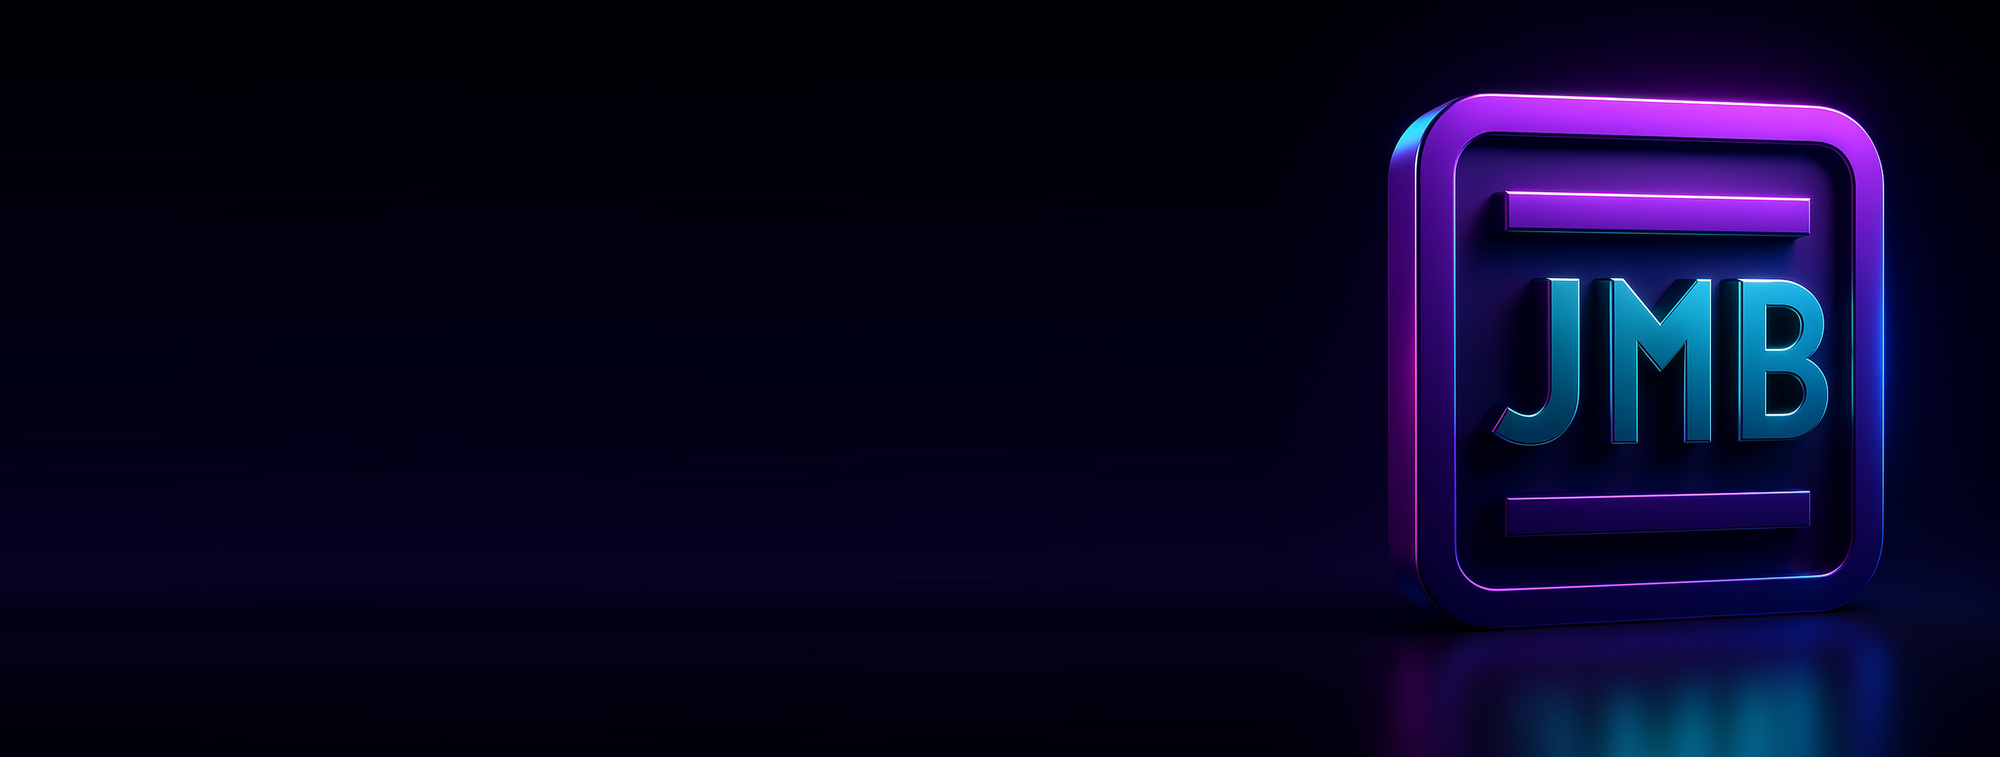
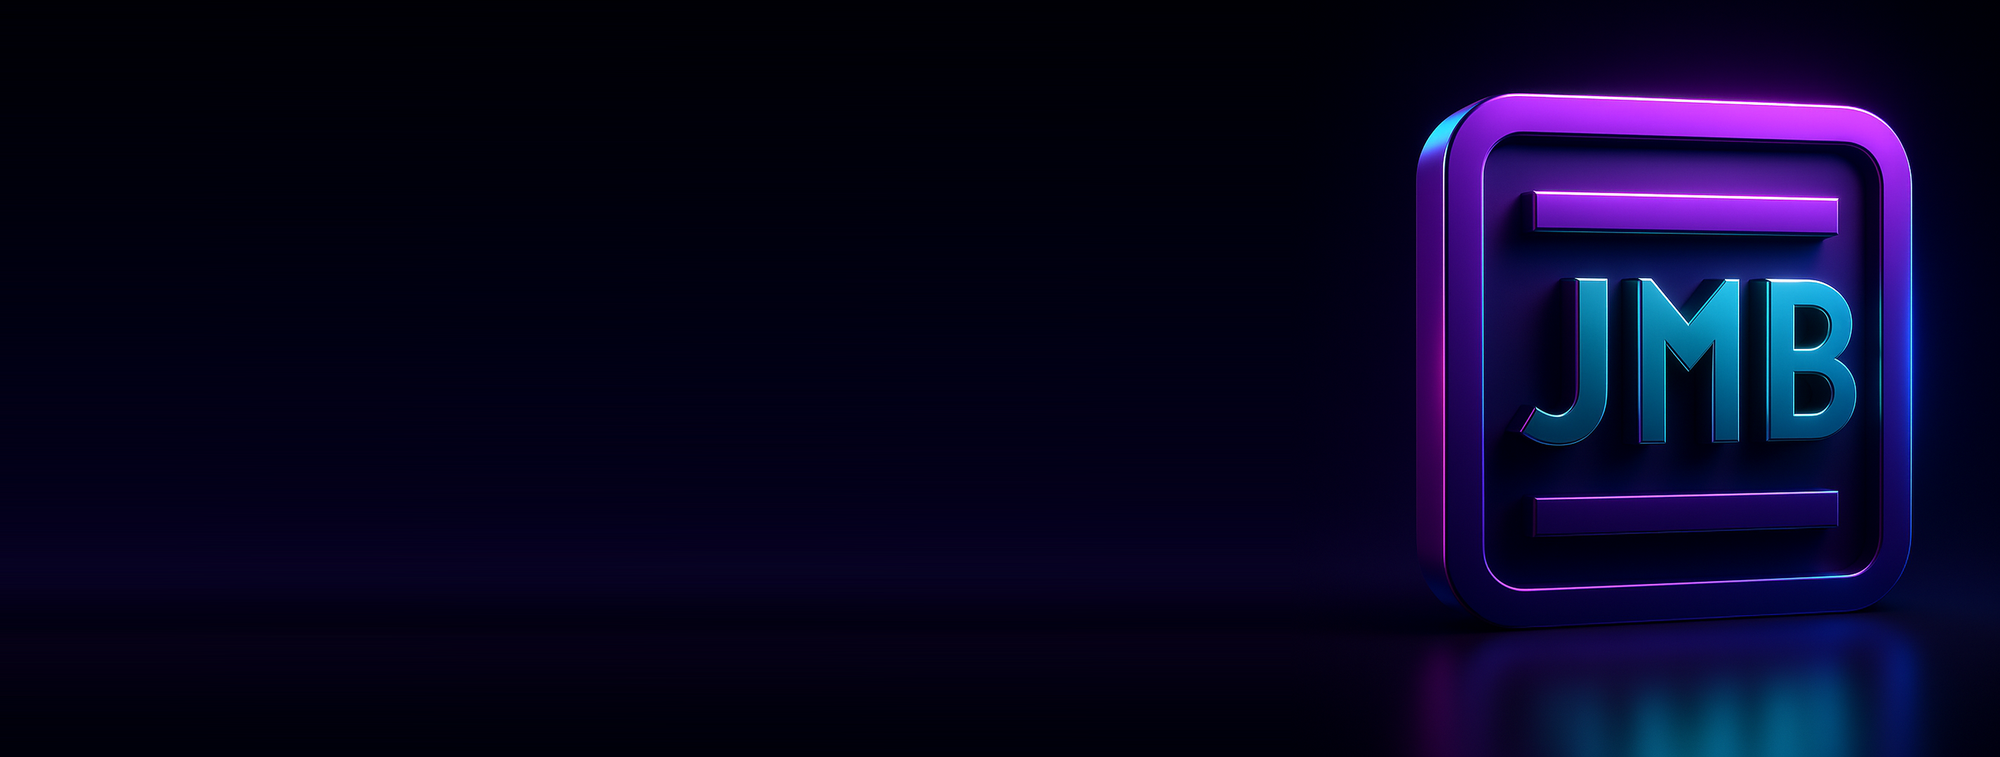
Hero: badge more right (v8)

Changed region(s): [[0.682, 0.1215, 0.992, 0.8811], [0.775, 0.8203, 0.961, 1.0], [0.682, 0.8811, 0.713, 0.9723]]

diff --git a/index.html b/index.html
@@ -48,7 +48,7 @@
   .btn:hover{ filter:brightness(1.08); }
   /* hero */
   header.hero{ position:relative; overflow:hidden; background:#000006;
-    background-image:linear-gradient(90deg,#000006 30%,rgba(0,0,6,.4) 52%,rgba(0,0,6,0) 68%), url('jmb-hero.png?v7');
+    background-image:linear-gradient(90deg,#000006 30%,rgba(0,0,6,.4) 52%,rgba(0,0,6,0) 68%), url('jmb-hero.png?v8');
     background-repeat:no-repeat; background-position:right center; background-size:cover; }
   .hero .wrap{ padding:96px 22px 104px; position:relative; }
   .prod .pmark{ justify-content:center; }
